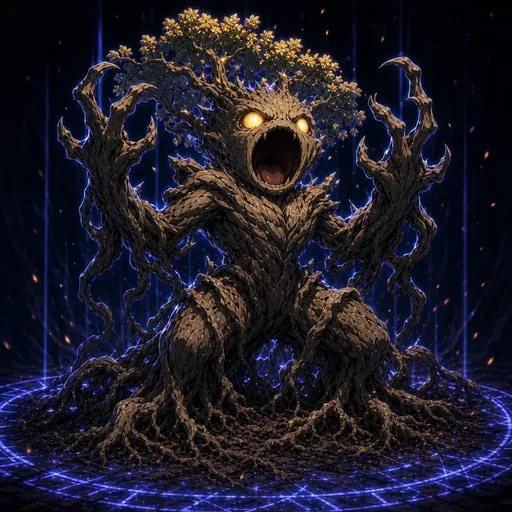
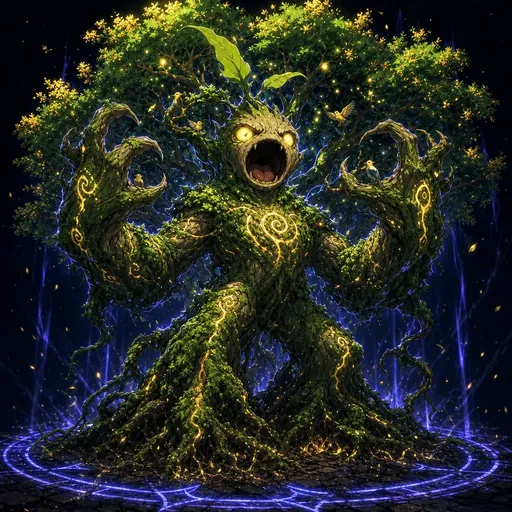
Art: kj's redraws of Worldroot Colossus and Grave Shuck
Audit of the in-game apex art (specs/26 section 8.2, new rule: an apex
differs clearly from its base and sibling, and no art reads as
disturbing). World Root and Umbral Veil were too close to their base.
kj picked take 2 (moss-green tree giant) and take 1 (silver-blue ghost
hound among gravestones). New portraits and battle sprites in
tools/art/final, exported to web/art; prompts.json updated. specs/26
8.2 also notes where the planned species' apex art lives
(art/species-drafts, tools/art/drafts/apex/).

Claude-Session: https://claude.ai/code/session_01Ku7qY9eWYr37pbWbYjHYs2

diff --git a/specs/26-spike-manhwa-sprites.md b/specs/26-spike-manhwa-sprites.md
@@ -105,6 +105,8 @@ For issue #115, in the terms of section 4.1: mostly CSS, a few small assets. Pan
 - Drafts, three per species per style, in `tools/art/drafts/abyss/` and `tools/art/drafts/hunter/` (deleted 2026-11-01 once the finals were picked; git history holds them), shown on the panel's "AI drafts" tab. kj first picked abyss drafts, asked that the art not look washed out (the abyss prompt now asks for rich colour and deep contrast), then settled on hunter.
 - **Hunter picks (kj):** Coremote 1, Bastion Drake 1, Mirage Moth 1, Mandrake 3, Shade Hound 3. They are the base portraits as generated, in `tools/art/final/<species>.webp`.
 - The ten apex forms, each drawn from its species' pick, in `tools/art/final/<chase tree>.webp`, and the fifteen battle sprites in `tools/art/final/sprite/`. The sprites came out as hi-bit pixel art with a bold outline, which reads well at 32-88 px. **(agent)** Accepted as is: it keeps the game's pixel look in battle while the portraits carry the painted style.
+- **Apex distinctness (kj, 2026-11-03):** every apex form must differ clearly from its base form and from its sibling apex, by silhouette, colour palette or both, and no art should read as disturbing (no clustered bumps or holes on a body). An audit of the ten apex forms found Worldroot Colossus and Grave Shuck too close to their base; kj picked redraws (a moss-green tree giant; a pale silver-blue ghost hound among gravestones), now in `final/` with new sprites and their prompts in `prompts.json`. Redraws that change the palette need the edit prompt to drop `apex_base`'s "same colours" line.
+- **Apex art for the planned species (epic #160):** all 36 apex forms of the 18 planned species are drawn and audited by the rule above, on branch `art/species-drafts` in `tools/art/drafts/apex/` (`<species>_apex1.webp` is the in-run chase apex, `_apex2` the book or harder in-run chase apex). `apex.json` there holds each prompt and reference. A species lane copies its two files to `final/<chase tree>.webp` instead of generating new apex art, then makes the sprites.
 
 ### 8.3 In the web client
 
